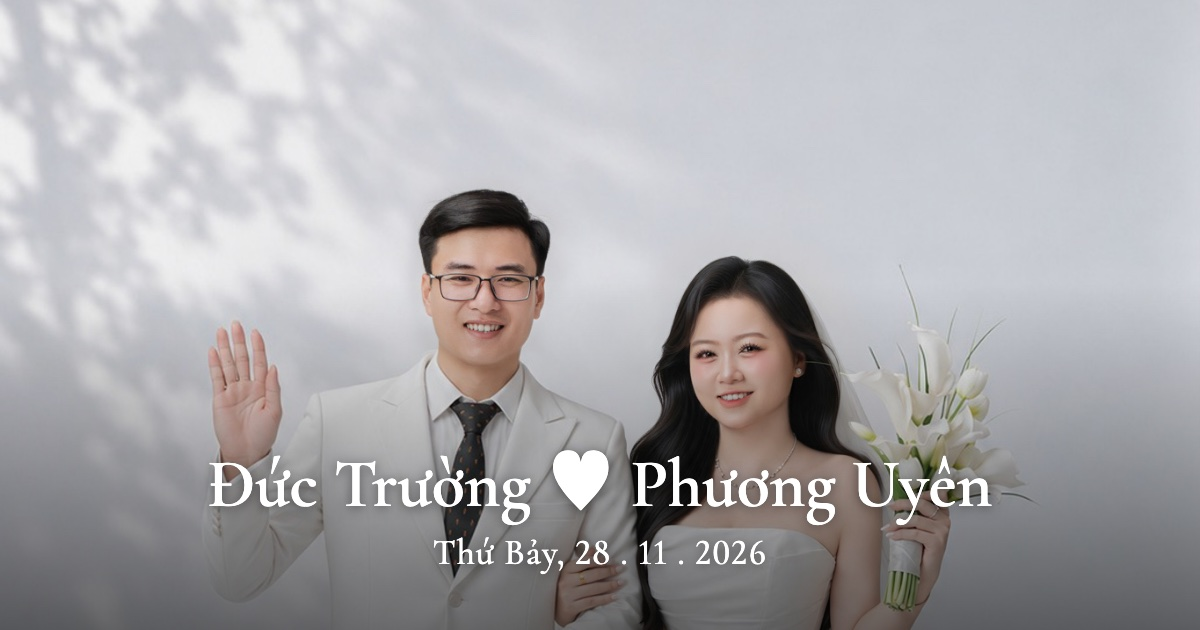
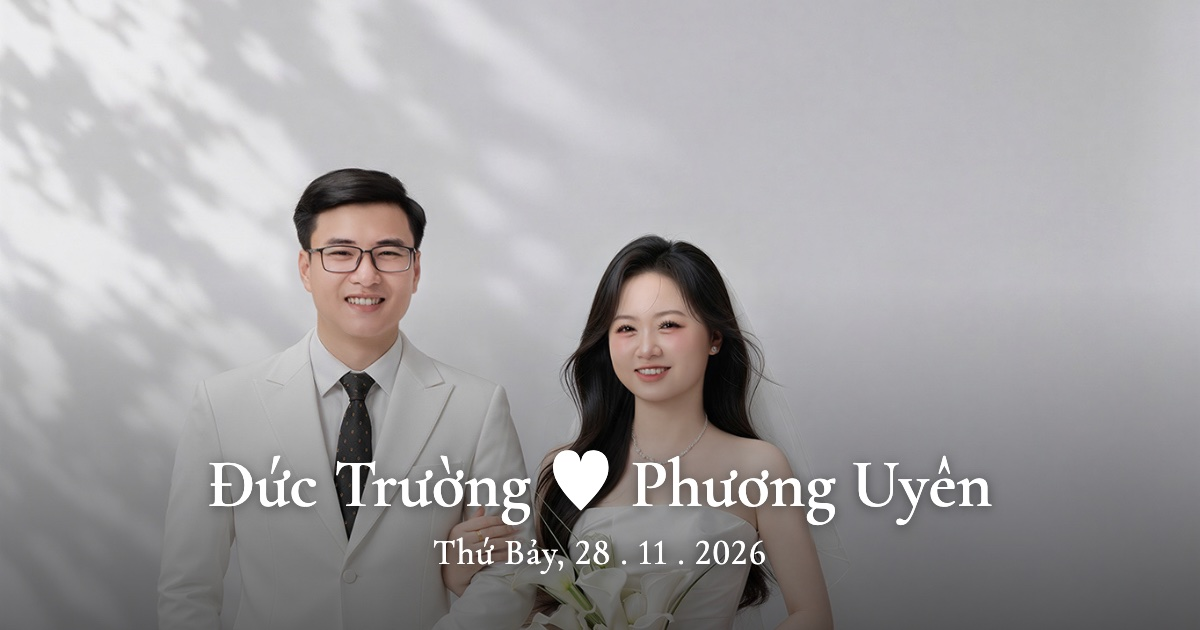
fix: thiệp Đức Trường & Phương Uyên (nhà trai) — ảnh đầu thiệp đúng file khách chỉ định IMG_2880 (trang-6, link Drive 1qXFdUey…), DSC08628 trả về album; og.jpg làm lại từ ảnh mới (issue #36)

diff --git a/dist/assets/index-C4UDiW6z.js b/dist/assets/index-C4UDiW6z.js
@@ -97,7 +97,7 @@ Error generating stack: `+i.message+`
  *
  * This source code is licensed under the ISC license.
  * See the LICENSE file in the root directory of this source tree.
- */const rp=yt("X",[["path",{d:"M18 6 6 18",key:"1bl5f8"}],["path",{d:"m6 6 12 12",key:"d8bk6v"}]]),gc="Xóm Mỹ Quan, xã Hùng Châu, tỉnh Nghệ An",lp="Xóm Phúc Mỹ, xã Hải Châu, tỉnh Nghệ An",ip={label:"Nhà Trai",father:"Nguyễn Đăng Khoa",mother:"Nguyễn Thị Thu",address:gc},op={label:"Nhà Gái",father:"Đào Lục",mother:"Phạm Thị Tuyết",address:lp},up={hero:{subtitle:"Save The Date",names:["Đức Trường","Phương Uyên"],dateLine:"28 . 11 . 2026"},families:{sides:[ip,op],fullNames:["Đức Trường","Phương Uyên"]},invitation:{kicker:"Trân Trọng Kính Mời",defaultGuest:"Quý khách",title:"Tham Dự Lễ Thành Hôn",dateParts:["28","11","2026"]},events:{mapLabel:"Xem chỉ đường",items:[{id:"nha-trai",title:"Tiệc Mừng Lễ Thành Hôn",time:"11:00 - Thứ Bảy",date:"28. 11. 2026",lunar:"( Tức Ngày 20 Tháng 10 Năm Bính Ngọ )",places:[{label:"Tư Gia Nhà Trai",address:gc,mapQuery:"19.0751747,105.6062784"}]}]},calendar:{title:"Save The Date",dateIso:"2026-11-28"},rsvp:{show:!1},gift:{button:"Gửi Mừng Cưới",title:"Hộp Quà Mừng Cưới",copyLabel:"Copy STK",copiedLabel:"Đã copy",saveQrLabel:"Lưu ảnh QR",accounts:[{holder:"NGUYEN VAN TRUONG",number:"5120531802",bank:"BIDV",qr:"/images/qr-bidv.png"}]},thanks:{title:"Thank You",text:"Từ tận đáy lòng, chúng mình cảm ơn bạn đã dành tình cảm và sự hiện diện cho ngày vui này. Chính bạn đã góp phần làm nên một kỷ niệm hạnh phúc mà chúng mình sẽ luôn trân trọng."},music:{src:"/music/music.mp3",volume:.45}},wt={hero:"/images/trang-1.jpg",couple:"/images/ao-dai-2.jpg",dateStrip:["/images/den-5.jpg","/images/trang-3.jpg","/images/co-dau-1.jpg"],album:["/images/trang-4.jpg","/images/den-1.jpg","/images/den-8.jpg","/images/trang-2.jpg","/images/ao-dai-1.jpg","/images/den-6.jpg","/images/den-3.jpg","/images/trang-6.jpg","/images/co-dau-2.jpg","/images/den-9.jpg","/images/den-7.jpg","/images/den-4.jpg"],gift:"/images/den-2.jpg",thankYou:"/images/trang-5.jpg"},Xu="guest-links:names",sp="/tao-link";function ap(){try{return window.location.pathname.replace(/\/+$/,"")===sp}catch{return!1}}function Yl(e,t){return`${e}/?khach=${encodeURIComponent(t)}`}async function cp(e){try{return await navigator.clipboard.writeText(e),!0}catch{const t=document.createElement("textarea");t.value=e,t.style.position="fixed",t.style.opacity="0",document.body.appendChild(t),t.select();const n=document.execCommand("copy");return document.body.removeChild(t),n}}function Zu({text:e,label:t="Sao chép",className:n=""}){const[r,l]=P.useState(!1);async function i(){await cp(e)&&(l(!0),setTimeout(()=>l(!1),1500))}return a.jsxs("button",{type:"button",onClick:i,className:`inline-flex shrink-0 items-center gap-1.5 rounded-lg px-3 py-1.5 text-sm font-semibold transition ${r?"bg-green-600 text-white":"bg-[#9e3745] text-white hover:bg-[#7e2b37]"} ${n}`,children:[r?a.jsx(vc,{className:"h-4 w-4","aria-hidden":!0}):a.jsx(yc,{className:"h-4 w-4","aria-hidden":!0}),r?"Đã chép":t]})}function fp(){const e=P.useMemo(()=>window.location.origin,[]),[t,n]=P.useState(()=>{try{return localStorage.getItem(Xu)??""}catch{return""}}),[r,l]=P.useState(!0);P.useEffect(()=>{try{localStorage.setItem(Xu,t)}catch{}},[t]);const i=P.useMemo(()=>{const u=new Set;return t.split(`
+ */const rp=yt("X",[["path",{d:"M18 6 6 18",key:"1bl5f8"}],["path",{d:"m6 6 12 12",key:"d8bk6v"}]]),gc="Xóm Mỹ Quan, xã Hùng Châu, tỉnh Nghệ An",lp="Xóm Phúc Mỹ, xã Hải Châu, tỉnh Nghệ An",ip={label:"Nhà Trai",father:"Nguyễn Đăng Khoa",mother:"Nguyễn Thị Thu",address:gc},op={label:"Nhà Gái",father:"Đào Lục",mother:"Phạm Thị Tuyết",address:lp},up={hero:{subtitle:"Save The Date",names:["Đức Trường","Phương Uyên"],dateLine:"28 . 11 . 2026"},families:{sides:[ip,op],fullNames:["Đức Trường","Phương Uyên"]},invitation:{kicker:"Trân Trọng Kính Mời",defaultGuest:"Quý khách",title:"Tham Dự Lễ Thành Hôn",dateParts:["28","11","2026"]},events:{mapLabel:"Xem chỉ đường",items:[{id:"nha-trai",title:"Tiệc Mừng Lễ Thành Hôn",time:"11:00 - Thứ Bảy",date:"28. 11. 2026",lunar:"( Tức Ngày 20 Tháng 10 Năm Bính Ngọ )",places:[{label:"Tư Gia Nhà Trai",address:gc,mapQuery:"19.0751747,105.6062784"}]}]},calendar:{title:"Save The Date",dateIso:"2026-11-28"},rsvp:{show:!1},gift:{button:"Gửi Mừng Cưới",title:"Hộp Quà Mừng Cưới",copyLabel:"Copy STK",copiedLabel:"Đã copy",saveQrLabel:"Lưu ảnh QR",accounts:[{holder:"NGUYEN VAN TRUONG",number:"5120531802",bank:"BIDV",qr:"/images/qr-bidv.png"}]},thanks:{title:"Thank You",text:"Từ tận đáy lòng, chúng mình cảm ơn bạn đã dành tình cảm và sự hiện diện cho ngày vui này. Chính bạn đã góp phần làm nên một kỷ niệm hạnh phúc mà chúng mình sẽ luôn trân trọng."},music:{src:"/music/music.mp3",volume:.45}},wt={hero:"/images/trang-6.jpg",couple:"/images/ao-dai-2.jpg",dateStrip:["/images/den-5.jpg","/images/trang-3.jpg","/images/co-dau-1.jpg"],album:["/images/trang-4.jpg","/images/den-1.jpg","/images/den-8.jpg","/images/trang-2.jpg","/images/ao-dai-1.jpg","/images/den-6.jpg","/images/den-3.jpg","/images/trang-1.jpg","/images/co-dau-2.jpg","/images/den-9.jpg","/images/den-7.jpg","/images/den-4.jpg"],gift:"/images/den-2.jpg",thankYou:"/images/trang-5.jpg"},Xu="guest-links:names",sp="/tao-link";function ap(){try{return window.location.pathname.replace(/\/+$/,"")===sp}catch{return!1}}function Yl(e,t){return`${e}/?khach=${encodeURIComponent(t)}`}async function cp(e){try{return await navigator.clipboard.writeText(e),!0}catch{const t=document.createElement("textarea");t.value=e,t.style.position="fixed",t.style.opacity="0",document.body.appendChild(t),t.select();const n=document.execCommand("copy");return document.body.removeChild(t),n}}function Zu({text:e,label:t="Sao chép",className:n=""}){const[r,l]=P.useState(!1);async function i(){await cp(e)&&(l(!0),setTimeout(()=>l(!1),1500))}return a.jsxs("button",{type:"button",onClick:i,className:`inline-flex shrink-0 items-center gap-1.5 rounded-lg px-3 py-1.5 text-sm font-semibold transition ${r?"bg-green-600 text-white":"bg-[#9e3745] text-white hover:bg-[#7e2b37]"} ${n}`,children:[r?a.jsx(vc,{className:"h-4 w-4","aria-hidden":!0}):a.jsx(yc,{className:"h-4 w-4","aria-hidden":!0}),r?"Đã chép":t]})}function fp(){const e=P.useMemo(()=>window.location.origin,[]),[t,n]=P.useState(()=>{try{return localStorage.getItem(Xu)??""}catch{return""}}),[r,l]=P.useState(!0);P.useEffect(()=>{try{localStorage.setItem(Xu,t)}catch{}},[t]);const i=P.useMemo(()=>{const u=new Set;return t.split(`
 `).map(c=>c.replace(/\s+/g," ").trim()).filter(c=>c&&!u.has(c.toLowerCase())&&u.add(c.toLowerCase()))},[t]),o=i.map(u=>r?`${u}: ${Yl(e,u)}`:Yl(e,u)),s=document.title;return a.jsx("div",{className:"min-h-screen bg-[#f8f6f2] px-4 py-8 font-sans text-[#1f1f1f]",children:a.jsxs("main",{className:"mx-auto max-w-[640px]",children:[a.jsx("h1",{className:"text-2xl font-bold",children:"Tạo link mời khách"}),a.jsxs("p",{className:"mt-1 text-sm text-black/60",children:["Thiệp: ",a.jsx("b",{children:s})]}),a.jsx("label",{className:"mt-6 block text-sm font-semibold",htmlFor:"guest-names",children:"Tên khách mời — mỗi dòng một người, ghi cả xưng hô (vd: Cô Lan, Gia đình bác Hùng, Anh Tuấn)"}),a.jsx("textarea",{id:"guest-names",value:t,onChange:u=>n(u.target.value),rows:8,placeholder:`Cô Lan
 Gia đình bác Hùng
 Anh Tuấn & chị Mai`,className:"mt-2 w-full rounded-xl border border-black/20 bg-white p-3 text-base outline-none focus:border-[#9e3745]"}),a.jsx("p",{className:"mt-1 text-xs text-black/50",children:"Danh sách được lưu trên trình duyệt này, mở lại trang vẫn còn."}),i.length>0&&a.jsxs(a.Fragment,{children:[a.jsxs("div",{className:"mt-6 flex flex-wrap items-center justify-between gap-3",children:[a.jsxs("p",{className:"font-semibold",children:[i.length," link"]}),a.jsxs("div",{className:"flex items-center gap-3",children:[a.jsxs("label",{className:"flex items-center gap-1.5 text-sm",children:[a.jsx("input",{type:"checkbox",checked:r,onChange:u=>l(u.target.checked)}),"Kèm tên khi chép tất cả"]}),a.jsx(Zu,{text:o.join(`

diff --git a/src/image.js b/src/image.js
@@ -6,7 +6,7 @@
  */
 export const images = {
   /** Ảnh dọc lớn đầu thiệp (khung vàng) */
-  hero: '/images/trang-1.jpg',
+  hero: '/images/trang-6.jpg',
   /** Ảnh dưới phần gia đình (khung vàng) */
   couple: '/images/ao-dai-2.jpg',
   /** 3 ảnh dải ngày cưới: chú rể (không có ảnh chú rể riêng → ảnh chú rể nổi bật), ảnh đôi, cô dâu */
@@ -20,7 +20,7 @@ export const images = {
     '/images/ao-dai-1.jpg',
     '/images/den-6.jpg',
     '/images/den-3.jpg',
-    '/images/trang-6.jpg',
+    '/images/trang-1.jpg',
     '/images/co-dau-2.jpg',
     '/images/den-9.jpg',
     '/images/den-7.jpg',

diff --git a/dist/index.html b/dist/index.html
@@ -24,7 +24,7 @@
       href="https://fonts.googleapis.com/css2?family=Cormorant+Upright:wght@400;600&family=Ephesis&family=Great+Vibes&family=Imperial+Script&family=Lora:wght@400;700&family=Montserrat:wght@400;500;600;700&family=Oswald:wght@400;500&family=Prata&family=Quicksand:wght@400;500;600;700&family=Tinos:ital,wght@0,400;0,700;1,400&display=swap"
       rel="stylesheet"
     />
-    <script type="module" crossorigin src="/assets/index-CsqScQ6U.js"></script>
+    <script type="module" crossorigin src="/assets/index-C4UDiW6z.js"></script>
     <link rel="stylesheet" crossorigin href="/assets/index-Du__Phy9.css">
   </head>
   <body>
